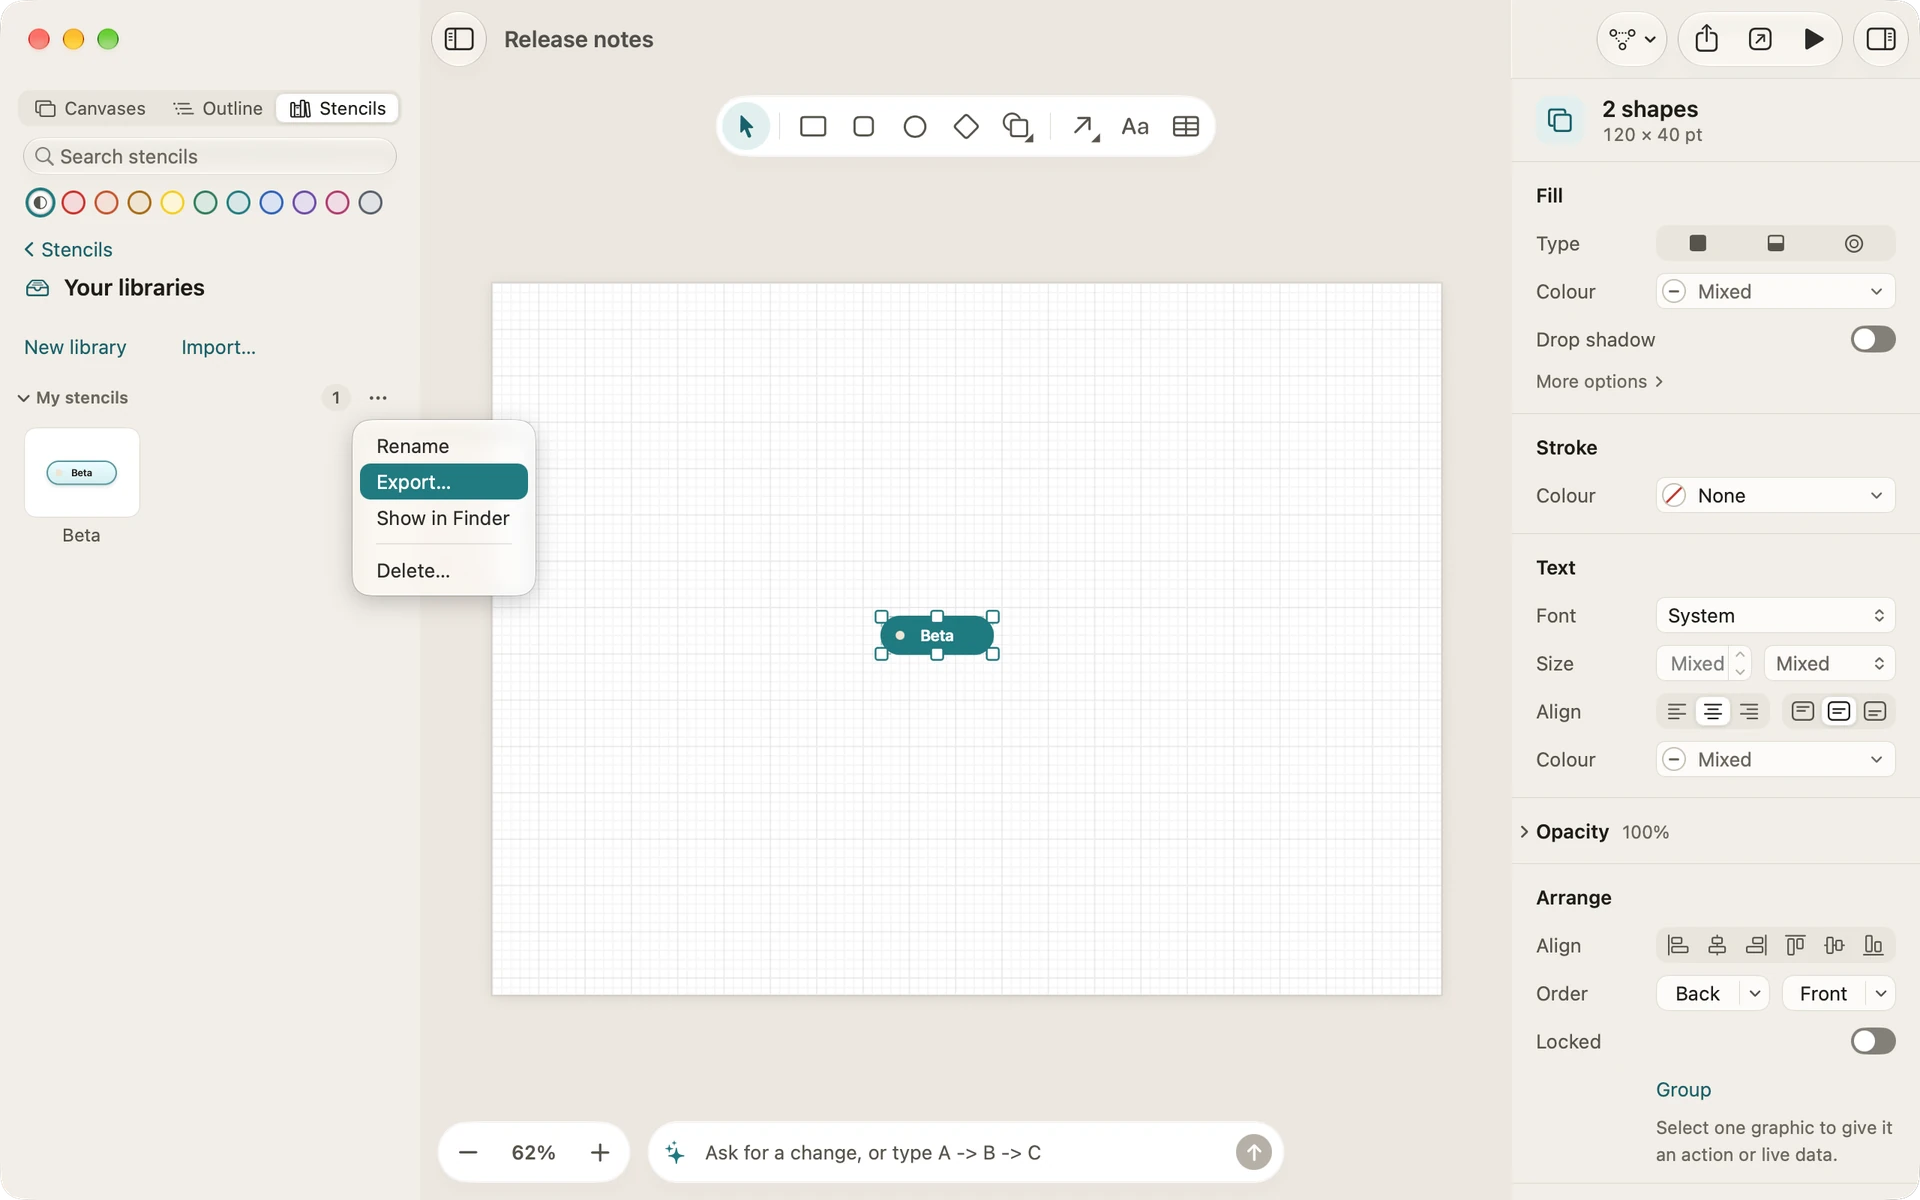
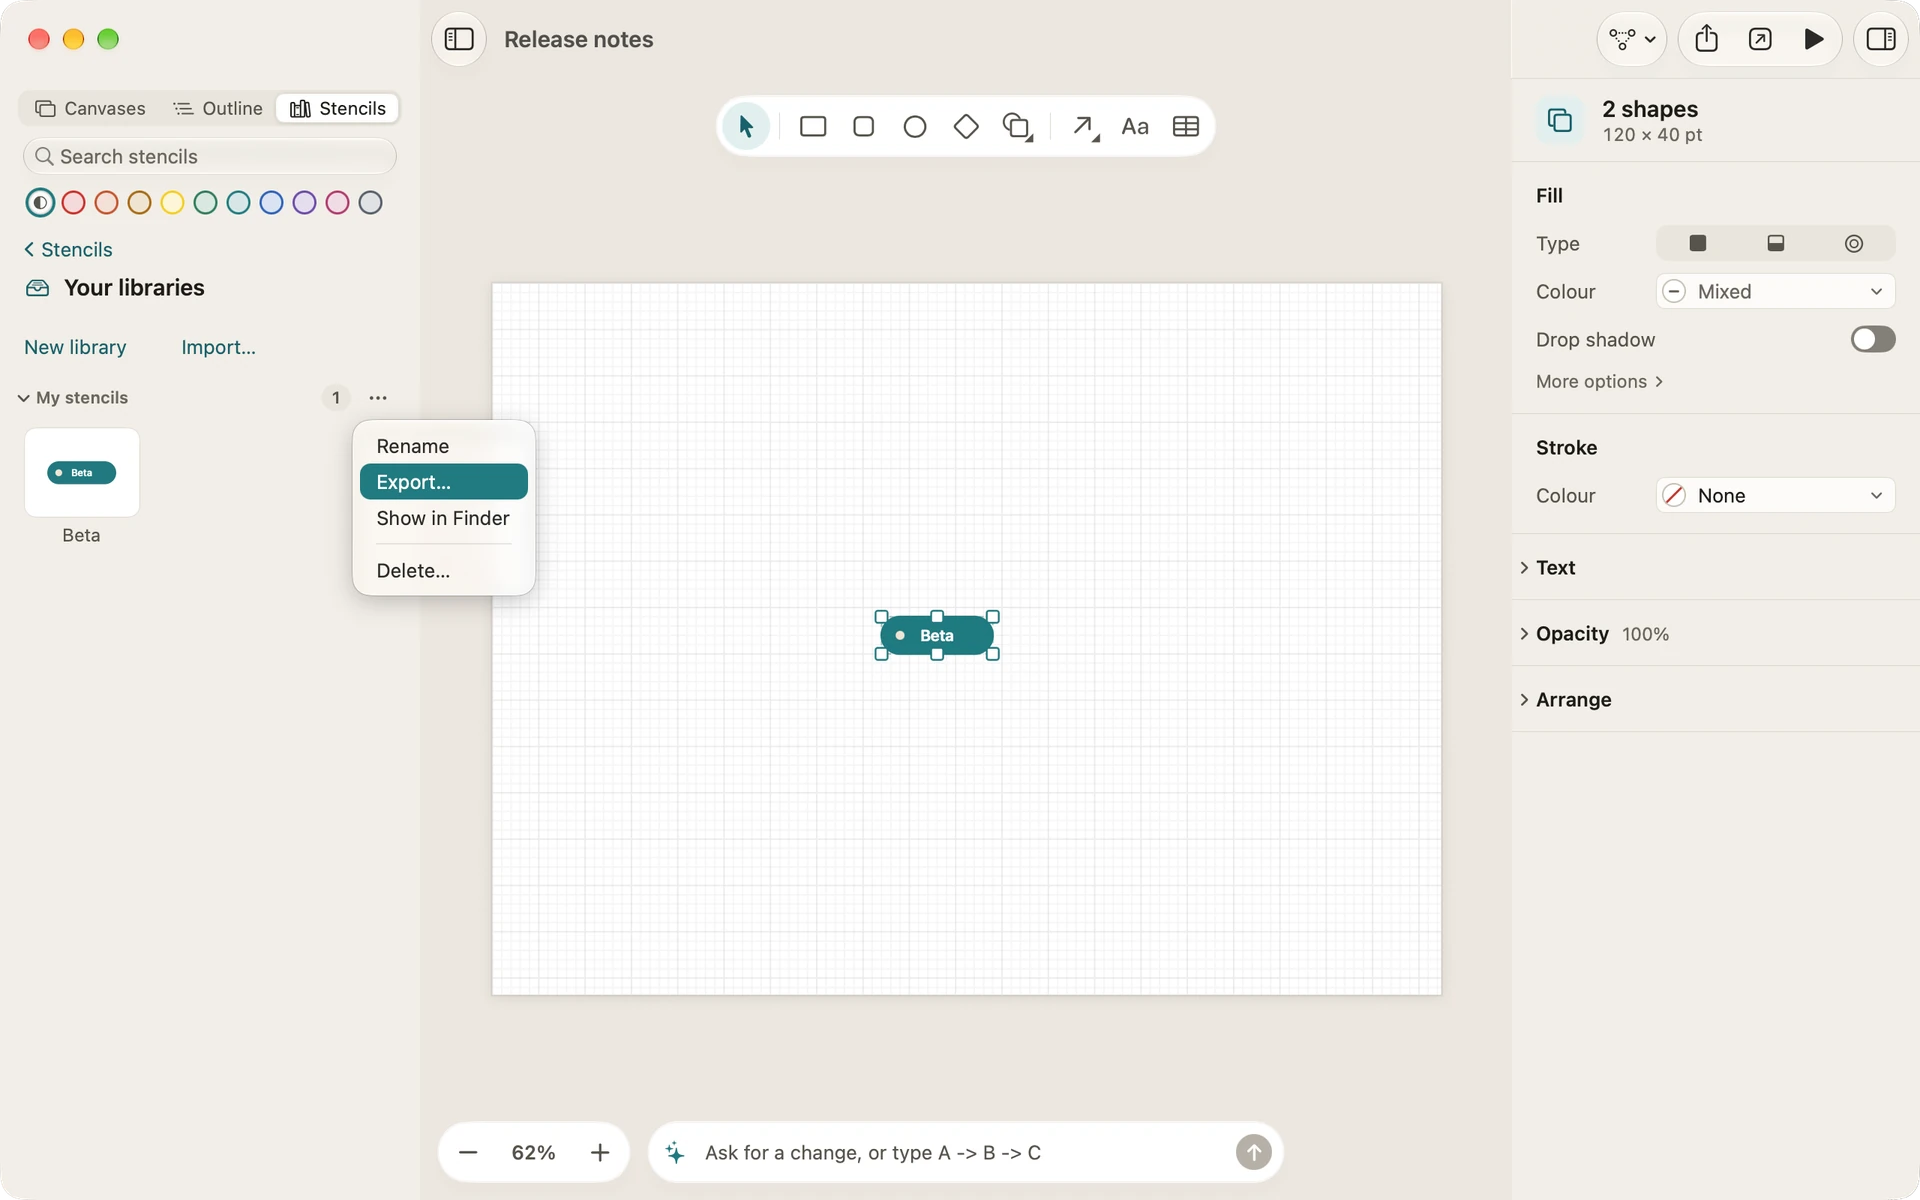
diagrove: library-menu taken again: your stencil keeps its saved colours

diff --git a/content/diagrove/how-to/make-a-stencil-library.md b/content/diagrove/how-to/make-a-stencil-library.md
@@ -31,6 +31,6 @@ In **Your libraries**, **New library** at the top of the page makes one. Drag a 
 
 To add a library someone sent you, click **Import…** at the top of **Your libraries** and choose the file. It appears alongside your own. On the Mac you can also double-click a `.diagrovestencils` file, and **Import…** also reads OmniGraffle stencil files (`.gstencil`).
 
-![The Stencils tab on Your libraries, with New library and Import…, the My stencils library holding the Beta stencil, and the library’s menu open: Rename, Export… highlighted, Show in Finder and Delete….](library-menu.webp "A library’s menu.")
+![The Stencils tab on Your libraries, with New library and Import…, the My stencils library holding the Beta stencil in its saved teal and white, and the library’s menu open: Rename, Export… highlighted, Show in Finder and Delete….](library-menu.webp "A library’s menu.")
 
 More in [Stencils and tints](../../guide/stencils-and-tints/).
